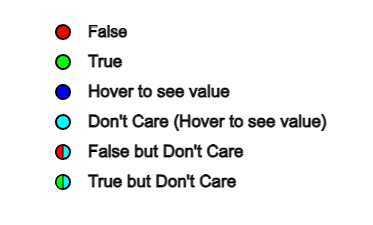
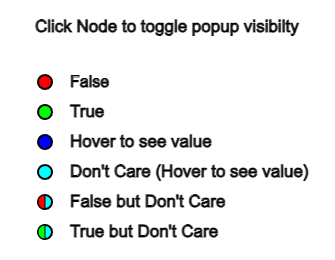
lejant changed & value table done

diff --git a/index.html b/index.html
@@ -227,13 +227,14 @@
         Close Popups
       </button>
     </div>
+
     <div
       id="valuesContainer"
-      class="fixed py-12 h-full top-6 left-0 z-40 flex items-start transition-all -translate-x-[calc(100%_-_50px)]"
+      class="fixed h-full text-center w-[410px] top-[10%] left-0 z-40 transition-all -translate-x-[calc(100%_-_40px)]"
     >
-      <div class="h-full bg-white text-center w-96 relative">
+      <div class="relative">
         <div
-          class="h-[50px] text-lg bg-white flex flex-col items-center justify-center sticky top-0 shadow"
+          class="h-[50px] w-full text-lg bg-white flex flex-col items-center justify-center sticky top-0 shadow"
         >
           Binary Equivalent of Hex Values
           <span class="text-xs text-gray-500"
@@ -241,20 +242,32 @@
           >
         </div>
 
-        <aside
-          class="bg-[#f6f6f6] h-[calc(100%_-_50px)] overflow-y-scroll"
-        ></aside>
+        <button
+          type="button"
+          class="absolute top-0 right-3 h-[50px]"
+          onclick="toggleValuesContainer()"
+        >
+          <svg
+            class="w-6 h-6"
+            aria-hidden="true"
+            fill="currentColor"
+            viewBox="0 0 20 20"
+            xmlns="http://www.w3.org/2000/svg"
+            width="50"
+            height="50"
+          >
+            <path
+              clip-rule="evenodd"
+              fill-rule="evenodd"
+              d="M2 4.75A.75.75 0 012.75 4h14.5a.75.75 0 010 1.5H2.75A.75.75 0 012 4.75zm0 10.5a.75.75 0 01.75-.75h7.5a.75.75 0 010 1.5h-7.5a.75.75 0 01-.75-.75zM2 10a.75.75 0 01.75-.75h14.5a.75.75 0 010 1.5H2.75A.75.75 0 012 10z"
+            ></path>
+          </svg>
+        </button>
       </div>
 
-      <button type="button" onclick="toggleValuesContainer()">
-        <img
-          src="media/tip.png"
-          width="50"
-          height="50"
-          alt=""
-          class="float-right"
-        />
-      </button>
+      <aside
+        class="bg-[#f6f6f6] h-[calc(100%_-_50px)] overflow-y-scroll w-[calc(100%_-_40px)]"
+      ></aside>
     </div>
 
     <div id="canvas-container" class="flex justify-center py-5"></div>

diff --git a/js/utilities/script.js b/js/utilities/script.js
@@ -15,6 +15,12 @@ const valuesContainer = document.getElementById("valuesContainer");
 
 const organizer = new Organizer();
 
+// const WHITE = color(255);
+// const SKY = color(5, 176, 239);
+// const GREEN = color(0, 255, 0);
+// const RED = color(255, 0, 0);
+// const LIGHTBLUE = color(0, 255, 255);
+
 const hexDigits = {
   10: "A",
   11: "B",
@@ -45,6 +51,10 @@ function goOneCycle() {
 
   for (let i = components.length - 1; i >= 0; i--) {
     components[i].updateDontCare();
+  }
+
+  for (let i = 0; i < nodes.length; i++) {
+    nodes[i].addNodeToValueTable();
   }
 
   updateValuesContainer();
@@ -291,13 +301,19 @@ function toggleValuesContainer() {
 }
 
 function updateValuesContainer() {
-  const aside = valuesContainer.children[0].children[1];
-  aside.innerHTML = ""; // gets aside tag
+  const aside = valuesContainer.children[1]; // gets aside tag
+  aside.innerHTML = "";
   let table = organizer.getValueTable();
   for (const [key, value] of Object.entries(table)) {
     let d1 = document.createElement("div");
     d1.setAttribute("node-id", key);
-    d1.classList.add("border-2", "m-4", "bg-white", "rounded");
+    d1.classList.add(
+      "border-2",
+      "m-4",
+      "bg-white",
+      "rounded",
+      "hover:shadow-lg"
+    );
 
     d1.addEventListener("mouseover", () => {
       findNodeById(key).setIsHighlighted(true);

diff --git a/js/components/node.js b/js/components/node.js
@@ -51,9 +51,11 @@ class Node {
       : value
       ? color(0, 255, 0)
       : color(255, 0, 0);
+  }
 
-    value.length > 6 &&
-      organizer.updateValueTable(this.id, [binToHex(value), value]);
+  addNodeToValueTable() {
+    this.value.length > 6 &&
+      organizer.updateValueTable(this.id, [binToHex(this.value), this.value]);
   }
 
   setWires(wires) {

diff --git a/js/utilities/canvas.js b/js/utilities/canvas.js
@@ -672,9 +672,14 @@ function initNodesForLejant() {
 }
 
 function seeLejant() {
+  fill(0, 0, 0);
+
   stroke(0);
   strokeWeight(1);
-  fill(0, 0, 0);
+
+  textSize(17);
+  text("Click Node to toggle popup visibilty", 490, 50);
+
   textSize(16);
   text("False", 525, 105);
 
